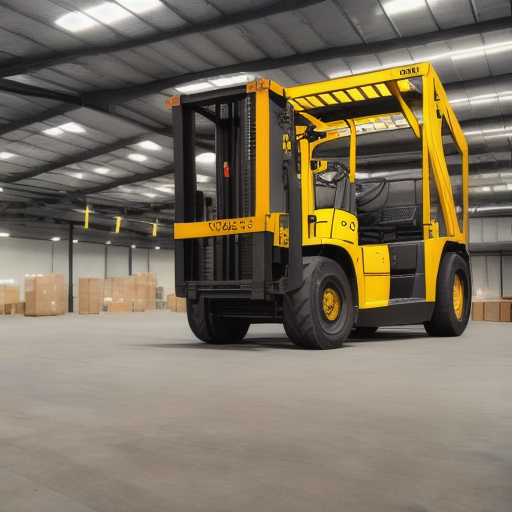
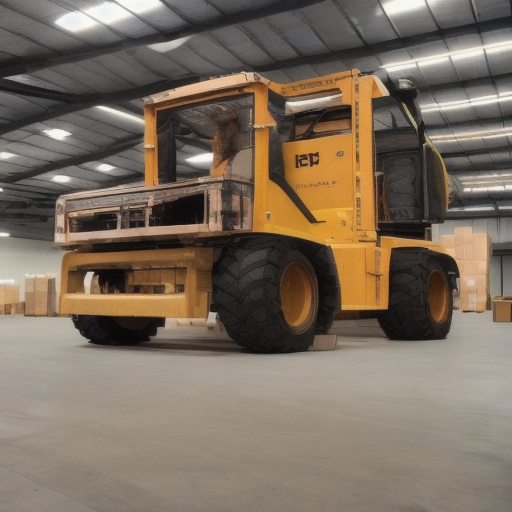
refactored and made new file

diff --git a/src/inpainting_dataset_generator.py b/src/inpainting_dataset_generator.py
@@ -1,0 +1,83 @@
+import os
+import glob
+import yaml
+import numpy as np
+import random
+from PIL import Image
+import torch
+from diffusers import StableDiffusionInpaintPipeline
+from inpainting import create_image_mask
+
+def load_config(config_file):
+    """
+    Load configuration from a YAML file.
+    """
+    with open(config_file, 'r') as file:
+        return yaml.safe_load(file)
+
+def load_stable_diffusion_inpainting_pipeline(config):
+    """
+    Load the Stable Diffusion Inpainting Pipeline.
+    """
+    pipe = StableDiffusionInpaintPipeline.from_pretrained(
+        config['model_path'],
+        torch_dtype=torch.float16,
+    ).to(config['device'])
+    return pipe
+
+def process_image(file_path, pipe, config, prompts_classes_dict):
+    """
+    Process a single image with inpainting based on prompts.
+    """
+    base_image = Image.open(file_path).convert("RGB").resize(config['image_size'])
+    base_image_np = np.array(base_image)
+    generator = torch.Generator(device=config['device']).manual_seed(random.randrange(1000000))
+
+    for serial, (prompt, class_name) in enumerate(prompts_classes_dict.items(), start=1):
+        mask, bboxes = create_image_mask(base_image_np, num_masks=1)
+        mask_image = Image.fromarray(mask).convert("RGB").resize(config['image_size'])
+        
+        inpainted_image = pipe(prompt=prompt,
+                               negative_prompt=config['negative_prompt'], 
+                               image=base_image,
+                               mask_image=mask_image,
+                               guidance_scale=config['guidance_scale'],
+                               generator=generator,
+                               num_images_per_prompt=config['num_samples'],
+                               ).images[0]
+        yield inpainted_image, bboxes, file_path, class_name, serial
+
+def save_results(inpainted_image, bboxes, file_path, class_name, serial, output_dir):
+    """
+    Save the inpainted image and bounding box information.
+    """
+    base_filename = os.path.splitext(os.path.basename(file_path))[0]
+    output_filename = f"{base_filename}_{class_name}_{format(serial, '04d')}.png"
+    inpainted_image.save(os.path.join(output_dir, output_filename))
+
+    bbox_filename = os.path.join(output_dir, f"{base_filename}_{class_name}_{format(serial, '04d')}.txt")
+    with open(bbox_filename, 'w') as bbox_file:
+        for bbox in bboxes:
+            yolo_bbox = ' '.join(map(str, [class_name, *bbox]))
+            bbox_file.write(yolo_bbox + '\n')
+
+def generate_dataset(config):
+    """
+    Generate an image dataset using inpainting based on provided prompts and classes.
+    """
+    pipe = load_stable_diffusion_inpainting_pipeline(config)
+    input_dir = config['input_directory']
+    output_dir = config['output_directory']
+    prompts_classes_dict = config['prompts_classes_dict']
+
+    if not os.path.exists(output_dir):
+        os.makedirs(output_dir)
+
+    image_files = glob.glob(input_dir + '/*.[pj][np][g]')  # jpg, png, jpeg
+    for file_path in image_files:
+        for result in process_image(file_path, pipe, config, prompts_classes_dict):
+            save_results(*result, output_dir)
+
+if __name__ == "__main__":
+    config = load_config('src/inpainting_config.yaml')
+    generate_dataset(config)

diff --git a/src/dataset_generator.py b/src/dataset_generator.py
@@ -20,6 +20,7 @@ def load_stable_diffusion_inpainting_pipeline():
     """
     device = "cuda"
     model_path = "Uminosachi/realisticVisionV20_v20-inpainting"
+    #model_path = "stablediffusionapi/epicphotogasm"
 
     pipe = StableDiffusionInpaintPipeline.from_pretrained(
         model_path,
@@ -51,8 +52,13 @@ def generate_dataset(input_dir, output_dir, prompts_classes_dict, blur_strength=
     """
     # Load the inpainting pipeline
     pipe = load_stable_diffusion_inpainting_pipeline()
-    guidance_scale=5.5
+    guidance_scale=1
     num_samples = 1
+    negative_prompt = "(deformed iris, deformed pupils, semi-realistic, cgi, 3d, render, sketch, cartoon, drawing, anime), \
+            text, cropped, out of frame, worst quality, low quality, jpeg artifacts, ugly, duplicate, morbid, mutilated, extra \
+            fingers, mutated hands, poorly drawn hands, poorly drawn face, mutation, deformed, blurry, dehydrated, \
+            bad anatomy, bad proportions, extra limbs, cloned face, disfigured, gross proportions, malformed limbs, \
+            missing arms, missing legs, extra arms, extra legs, fused fingers, too many fingers, long neck"
     generator = torch.Generator(device="cuda").manual_seed(1) # change the seed to get different results
 
     if not os.path.exists(output_dir):
@@ -67,7 +73,8 @@ def generate_dataset(input_dir, output_dir, prompts_classes_dict, blur_strength=
             # Generate mask and perform inpainting
             mask, bboxes = create_image_mask(base_image_np, num_masks=1)  # Adjust parameters as needed
             mask_image = Image.fromarray(mask).convert("RGB").resize((512, 512))
-            inpainted_image = pipe(prompt=prompt, 
+            inpainted_image = pipe(prompt=prompt,
+                                   negative_prompt = negative_prompt, 
                                    image=base_image,
                                    mask_image=mask_image,
                                    guidance_scale=guidance_scale,
